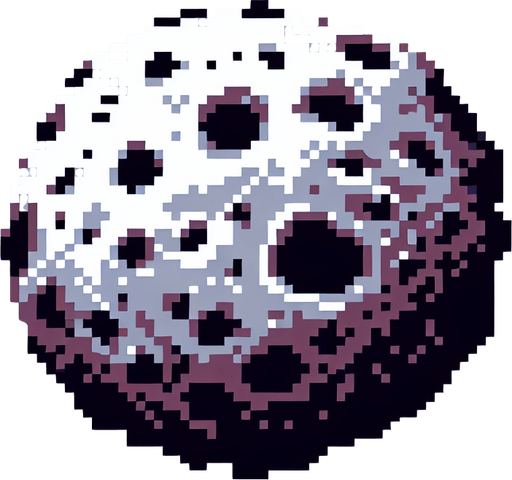
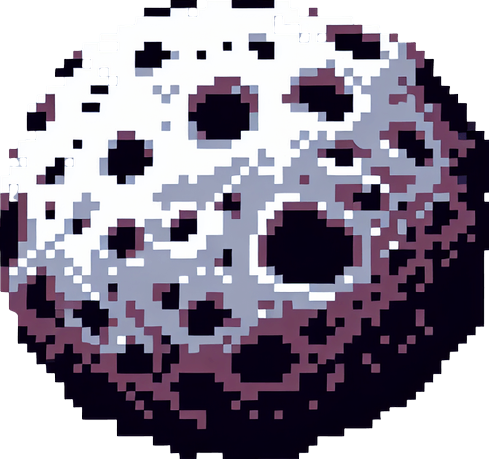
added png

diff --git a/asteroid.py b/asteroid.py
@@ -13,25 +13,49 @@ pygame.display.set_caption("Fusée dans l'espace")
 # Couleurs
 WHITE = (255, 255, 255)
 BLACK = (0, 0, 0)
-RED = (255, 0, 0)
 YELLOW = (255, 255, 0)
+
+# Chargement des images
+rocket_image = pygame.image.load("ship.png")
+asteroid_base_image = pygame.image.load("asteroid.png")
+
+# Rotation et redimensionnement de la fusée
+rocket_image = pygame.transform.rotate(rocket_image, -90)  # Rotate 90 degrees to the right
+rocket_image = pygame.transform.scale(rocket_image, (rocket_image.get_width() // 2.5, rocket_image.get_height() // 2.5))
 
 # Classe pour la fusée
 class Rocket:
     def __init__(self):
-        self.x = 50  # Position initiale à gauche de l'écran
+        self.x = 50
         self.y = HEIGHT // 2
-        self.vy = 0  # Vitesse verticale uniquement
+        self.vy = 0
+        self.width = rocket_image.get_width()
+        self.height = rocket_image.get_height()
 
     def update(self):
         self.y += self.vy
         if self.y < 0:
             self.y = 0
-        elif self.y > HEIGHT:
-            self.y = HEIGHT
+        elif self.y > HEIGHT - self.height:
+            self.y = HEIGHT - self.height
 
     def draw(self):
-        pygame.draw.rect(screen, WHITE, (self.x, self.y - 10, 20, 20))
+        screen.blit(rocket_image, (self.x, self.y))
+
+        # Draw the collision boxes in red
+        # for box in self.get_collision_boxes():
+        #     pygame.draw.rect(screen, (255, 0, 0), box, 1)  # Red outline for each collision box
+
+    def get_collision_boxes(self):
+        # Divides the ship into 3 smaller rectangles for better collision detection
+        box_width = self.width // 3
+        boxes = [
+            pygame.Rect(self.x, self.y, box_width, self.height),  # Left box
+            pygame.Rect(self.x + box_width, self.y + self.height/2 /2, box_width, self.height/2),  # Middle box
+            pygame.Rect(self.x + 2 * box_width, self.y + self.height/2.65, box_width*0.7, self.height/4),  # Right box
+            pygame.Rect(self.x + 2.7 * box_width, self.y + self.height/2.265, box_width*0.3, self.height/8)  # Right box
+        ]
+        return boxes
 
 class Missile:
     def __init__(self, x, y):
@@ -51,29 +75,58 @@ class Asteroid:
 
     def reset_position(self):
         self.x = WIDTH + random.randint(0, WIDTH)
-        self.y = random.randint(0, HEIGHT)
+        self.y = random.randint(0, HEIGHT)  # Spawning across the whole screen height
         self.radius = random.randint(50, 150)
         self.vx = random.uniform(5, 10)
+        self.image = pygame.transform.scale(asteroid_base_image, (self.radius * 2, self.radius * 2))
 
     def update(self):
         self.x -= self.vx
-        if self.x < -self.radius:
+        if self.x < -self.radius * 2:
             self.reset_position()
 
     def draw(self):
-        pygame.draw.circle(screen, RED, (int(self.x), int(self.y)), self.radius)
+        screen.blit(self.image, (int(self.x - self.radius), int(self.y - self.radius)))
+        #pygame.draw.circle(screen, (255, 0, 0), (self.x, self.y), self.radius, 1)  # 1 is the width for outline
 
     def shrink(self):
-        self.radius -= 10  
-        if self.radius < 10:
+        self.radius = int(self.radius * 0.75)
+        if self.radius < 20:
             self.reset_position()
+        else:
+            self.image = pygame.transform.scale(asteroid_base_image, (self.radius * 2, self.radius * 2))
 
 def check_rocket_collision(rocket, asteroids):
+    collision_boxes = rocket.get_collision_boxes()
     for asteroid in asteroids:
-        distance = math.hypot(rocket.x - asteroid.x, rocket.y - asteroid.y)
-        if distance < asteroid.radius + 10:
-            return True
+        for box in collision_boxes:
+            if Collision_cicle_rect((asteroid.x, asteroid.y), asteroid.radius, (box.centerx, box.centery), box.width, box.height):
+                return True
     return False
+
+import math
+
+def Collision_cicle_rect(circle_center, circle_radius, rect_center, rect_width, rect_height):
+    c_x, c_y = circle_center
+    r_x, r_y = rect_center
+    r_width, r_height = rect_width, rect_height
+
+    # Calculate rectangle bounds
+    r_min_x = r_x - r_width / 2
+    r_max_x = r_x + r_width / 2
+    r_min_y = r_y - r_height / 2
+    r_max_y = r_y + r_height / 2
+
+    # Find the closest point on the rectangle to the circle's center
+    closest_x = max(r_min_x, min(c_x, r_max_x))
+    closest_y = max(r_min_y, min(c_y, r_max_y))
+
+    # Calculate distance from the circle's center to the closest point
+    distance_squared = (c_x - closest_x) ** 2 + (c_y - closest_y) ** 2
+
+    # Check for collision
+    return distance_squared <= circle_radius ** 2
+
 
 def check_missile_collision(missiles, asteroids):
     for missile in missiles[:]:
@@ -84,7 +137,6 @@ def check_missile_collision(missiles, asteroids):
                 missiles.remove(missile)
                 break
 
-# Fonction pour réinitialiser le jeu
 def reset_game():
     global rocket, asteroids, missiles, score, running, game_over
     rocket = Rocket()
@@ -108,7 +160,7 @@ while running:
             running = False
         elif event.type == pygame.KEYDOWN:
             if event.key == pygame.K_SPACE and not game_over:
-                missiles.append(Missile(rocket.x + 20, rocket.y))
+                missiles.append(Missile(rocket.x + rocket.width, rocket.y + rocket.height // 2))
             elif event.key == pygame.K_r and game_over:
                 reset_game()
 
